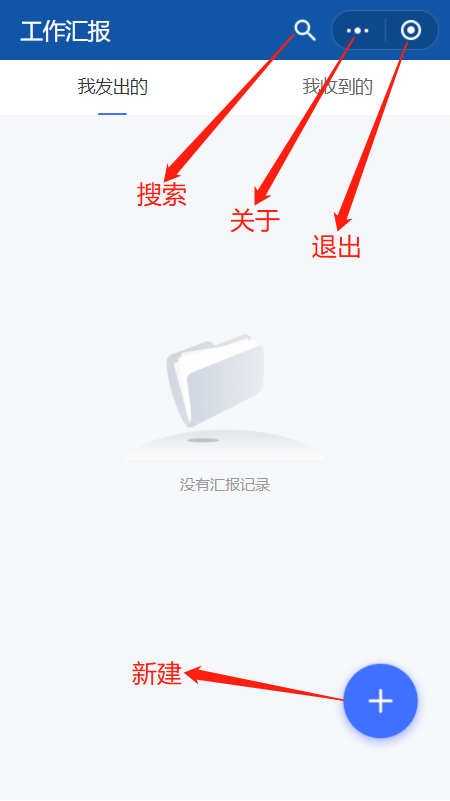
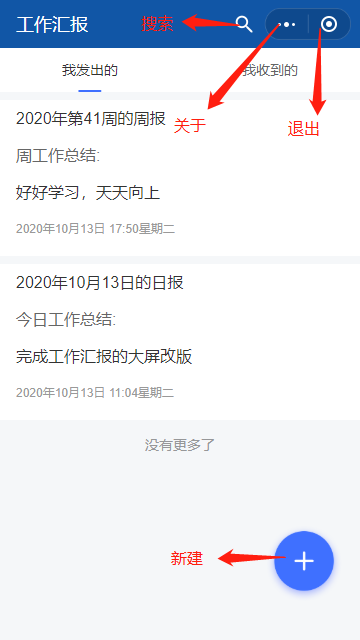
feat: 使用手册

diff --git a/docs/guide/docs/appHelpGuide/workReportHelpDocs.md b/docs/guide/docs/appHelpGuide/workReportHelpDocs.md
@@ -18,4 +18,7 @@ title: 工作汇报
 ![关于](./img/workreport/about.jpg)
 
 
-#####
+##### 新建日报
+##### 按提示依次填好今天的日报，标有红点的代表必填项，接收人表示你的日报应该发给谁看，在首页可以看到我发出的日报和我收到的日报，新建周报月报和拜访记录同理。
+![新建](./img/workreport/new.png)
+

diff --git a/docs/guide/docs/appHelpGuide/helpIndex.md b/docs/guide/docs/appHelpGuide/helpIndex.md
@@ -16,6 +16,14 @@
 
 参考 [工作汇报使用手册](./workReportHelpDocs)
 
+## 工作助手
+
+参考 [工作助手使用手册](./workAssistantHelpDocs)
+
+## 云盘app
+
+参考 [云盘app使用手册](./cloudDiskHelpDocs)
+
 
 ##  请休假
 
